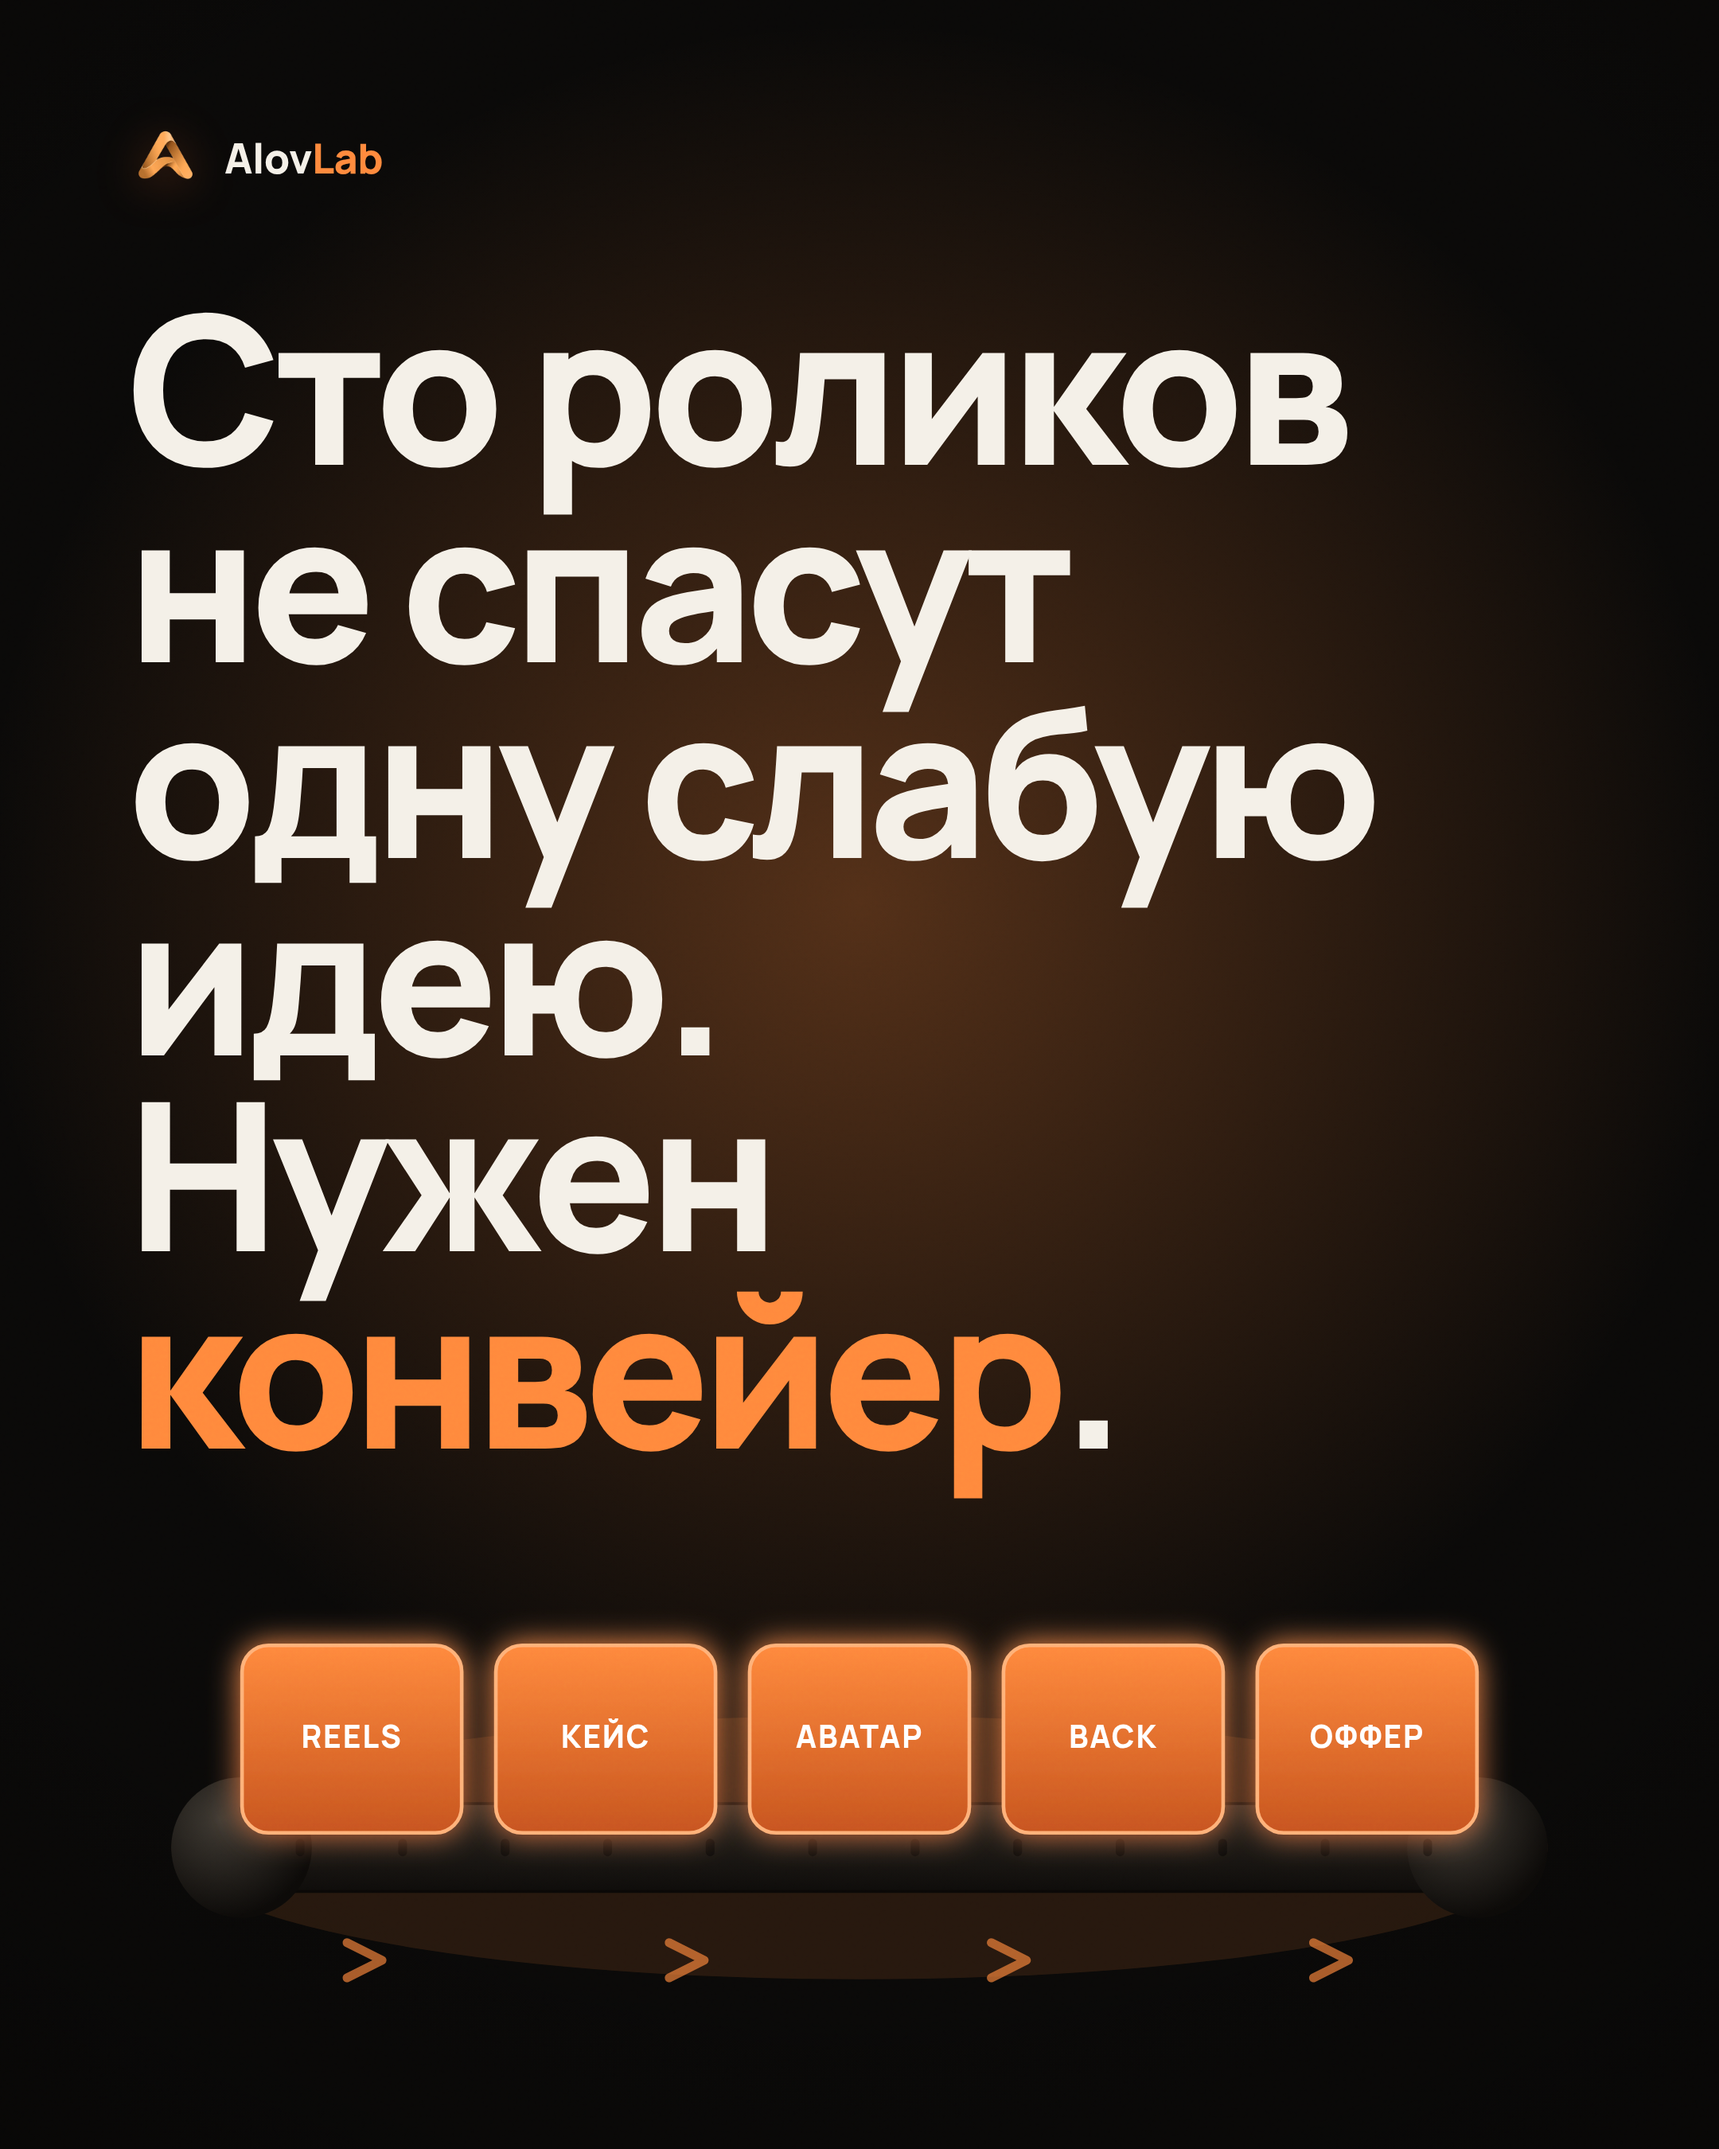
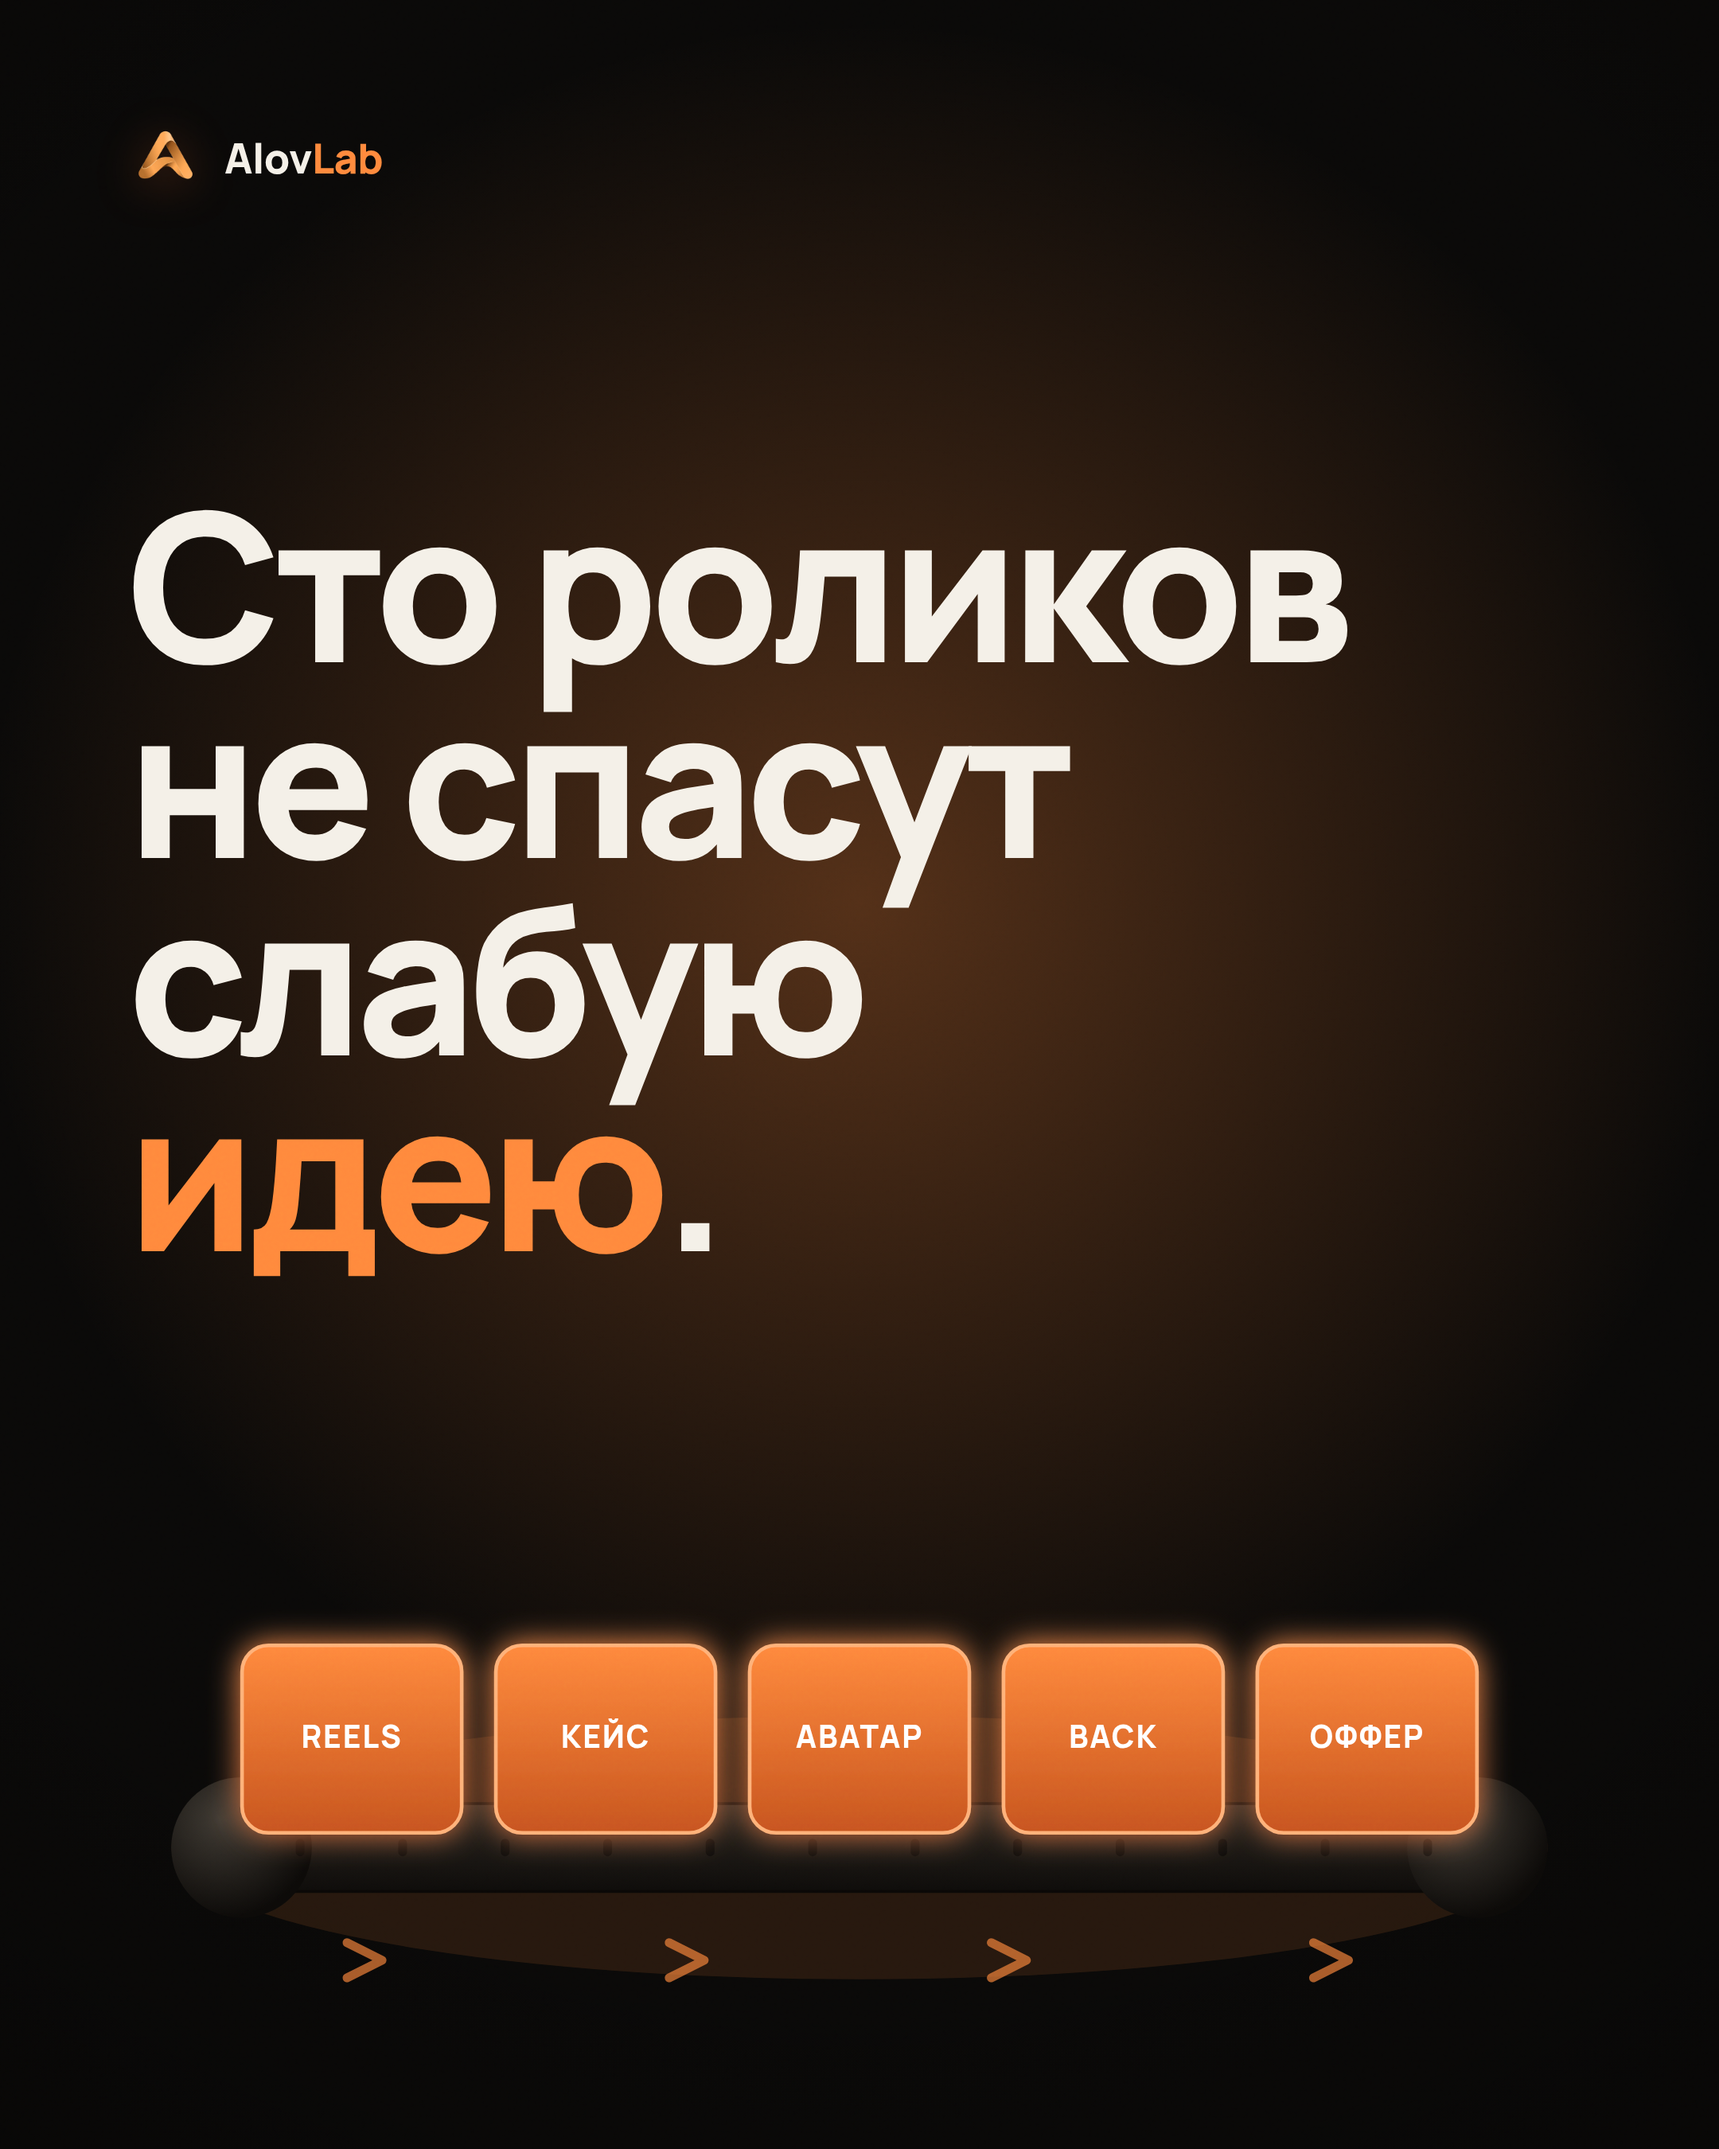
Tighten Tuesday pik headline; add Wednesday package (carousel + HeyGen)
Claude-Session: https://claude.ai/code/session_019LoRMaWcrsShywAHDg8vmg

Changed region(s): [[0.062, 0.1244, 0.8065, 0.7156]]

diff --git a/content/heygen/week-01-reels-03-wednesday.md b/content/heygen/week-01-reels-03-wednesday.md
@@ -1,0 +1,91 @@
+# HeyGen — Среда, Reels 3 «Дело не в модели» (полный пакет)
+
+Рубрика: «Дело не в модели». Формат: Reels 9:16, ~28–30 сек.
+Аватар: НЕЙРОМОНАХ. Голос: доктор Нейро. Выход воронки: метод в Telegram → курс.
+Хук: **«Тебе кажется, что ИИ пишет банально? Ты просто просишь банальное.»**
+В озвучке «Клод» (не «Claude»). На экране титром — «Claude». Ни одной выдуманной цифры.
+
+---
+
+## 1. Сценарий (таблица)
+
+| Таймкод | Текст аватара | Подача и эмоция | Визуал | Текст на экране | Монтаж |
+|---|---|---|---|---|---|
+| 0–3 | Тебе кажется, что ИИ пишет банально? Ты просто просишь банальное. | в упор, пауза | лицо крупно, в камеру | просишь **банально** | резкий старт |
+| 3–7 | Люди меняют модель за моделью. А выходит одно и то же. | спокойный вызов | B-roll: список моделей, палец листает | одно и то же | джамп-кат |
+| 7–9 | Смотри, что решает. | приглашающе | лицо → на экран | — | переход на скринкаст |
+| 9–19 | Один запрос — пусто. Тот же запрос с методом: контекст, роль, критерий. И ответ другой. | ровно, наставнически | скринкаст: слева слабый ответ / справа сильный | с **методом** | сплит-экран ответов |
+| 19–23 | Модель не менялась. Менялся только метод. | твёрдо | сравнение крупно | решает **метод** | вжух |
+| 23–27 | Дело никогда не было в модели. Дело в тебе. | тихо, в упор | лицо, тишина | дело в **тебе** | придержать |
+| 27–30 | Метод по шагам разложил в Telegram. | спокойно | лицо + логотип A | метод → **Telegram** | финал-титр |
+
+---
+
+## 2. Чистый текст для HeyGen
+
+> Тебе кажется, что ИИ пишет банально? Ты просто просишь банальное.
+>
+> Люди меняют модель за моделью. А выходит одно и то же.
+>
+> Смотри, что решает.
+>
+> Один запрос — пусто. Тот же запрос с методом: контекст, роль, критерий. И ответ другой.
+>
+> Модель не менялась. Менялся только метод.
+>
+> Дело никогда не было в модели. Дело в тебе.
+>
+> Метод по шагам разложил в Telegram.
+
+---
+
+## 3. Режиссёрские указания для Video Agent
+
+- Формат 9:16, 28–30 сек. Аватар НЕЙРОМОНАХ, голос доктор Нейро.
+- Тон: спокойный наставник, лёгкий вызов, без крика.
+- Паузы: после «просишь банальное» и после «Дело в тебе».
+- Аватар в кадре: 0–9 сек и 23–30 сек. Середина 9–23 — сплит-скринкаст, голос поверх.
+- Субтитры снизу крупно; на экране — только выделенные слова.
+- Оранжевый акцент — на одном слове за кадр.
+
+---
+
+## 4. Дополнительные кадры (B-roll)
+
+1. Список логотипов моделей, палец листает (3–7 сек).
+2. Сплит-скринкаст: один запрос → слева слабый банальный ответ, справа сильный конкретный (9–19 сек). Показать реальную структуру промпта (контекст/роль/критерий).
+3. Крупный план сравнения двух ответов (19–23 сек).
+
+---
+
+## 5. Субтитры (по битам)
+
+`просишь банально` → `одно и то же` → `что решает` → `один запрос → два ответа` → `решает метод` → `дело в тебе` → `метод → Telegram`
+
+---
+
+## 6. Три заголовка Reels
+
+1. «Ты просишь у ИИ банальное»
+2. «Дело не в модели»
+3. «Одна модель. Два результата»
+
+---
+
+## 7. Описание публикации (подпись)
+
+> Тебе кажется, что ИИ пишет банально? Ты просто просишь банальное.
+>
+> Люди меняют модель за моделью и ждут чуда. А решает не модель — решает метод: контекст, роль, критерий. Тот же запрос, но собранный правильно, даёт другой ответ.
+>
+> Модель не менялась. Менялся только ты.
+>
+> Метод по шагам разложил в Telegram — забирай в профиле.
+
+---
+
+## 8. Финальный CTA
+
+Голос: «Метод по шагам разложил в Telegram.»
+Механика: переход в Telegram за методом (не «подписывайся»). Выход воронки — курс.
+Обложка: заголовок «Одна модель. Два результата» или слайд 1 карусели среды.
